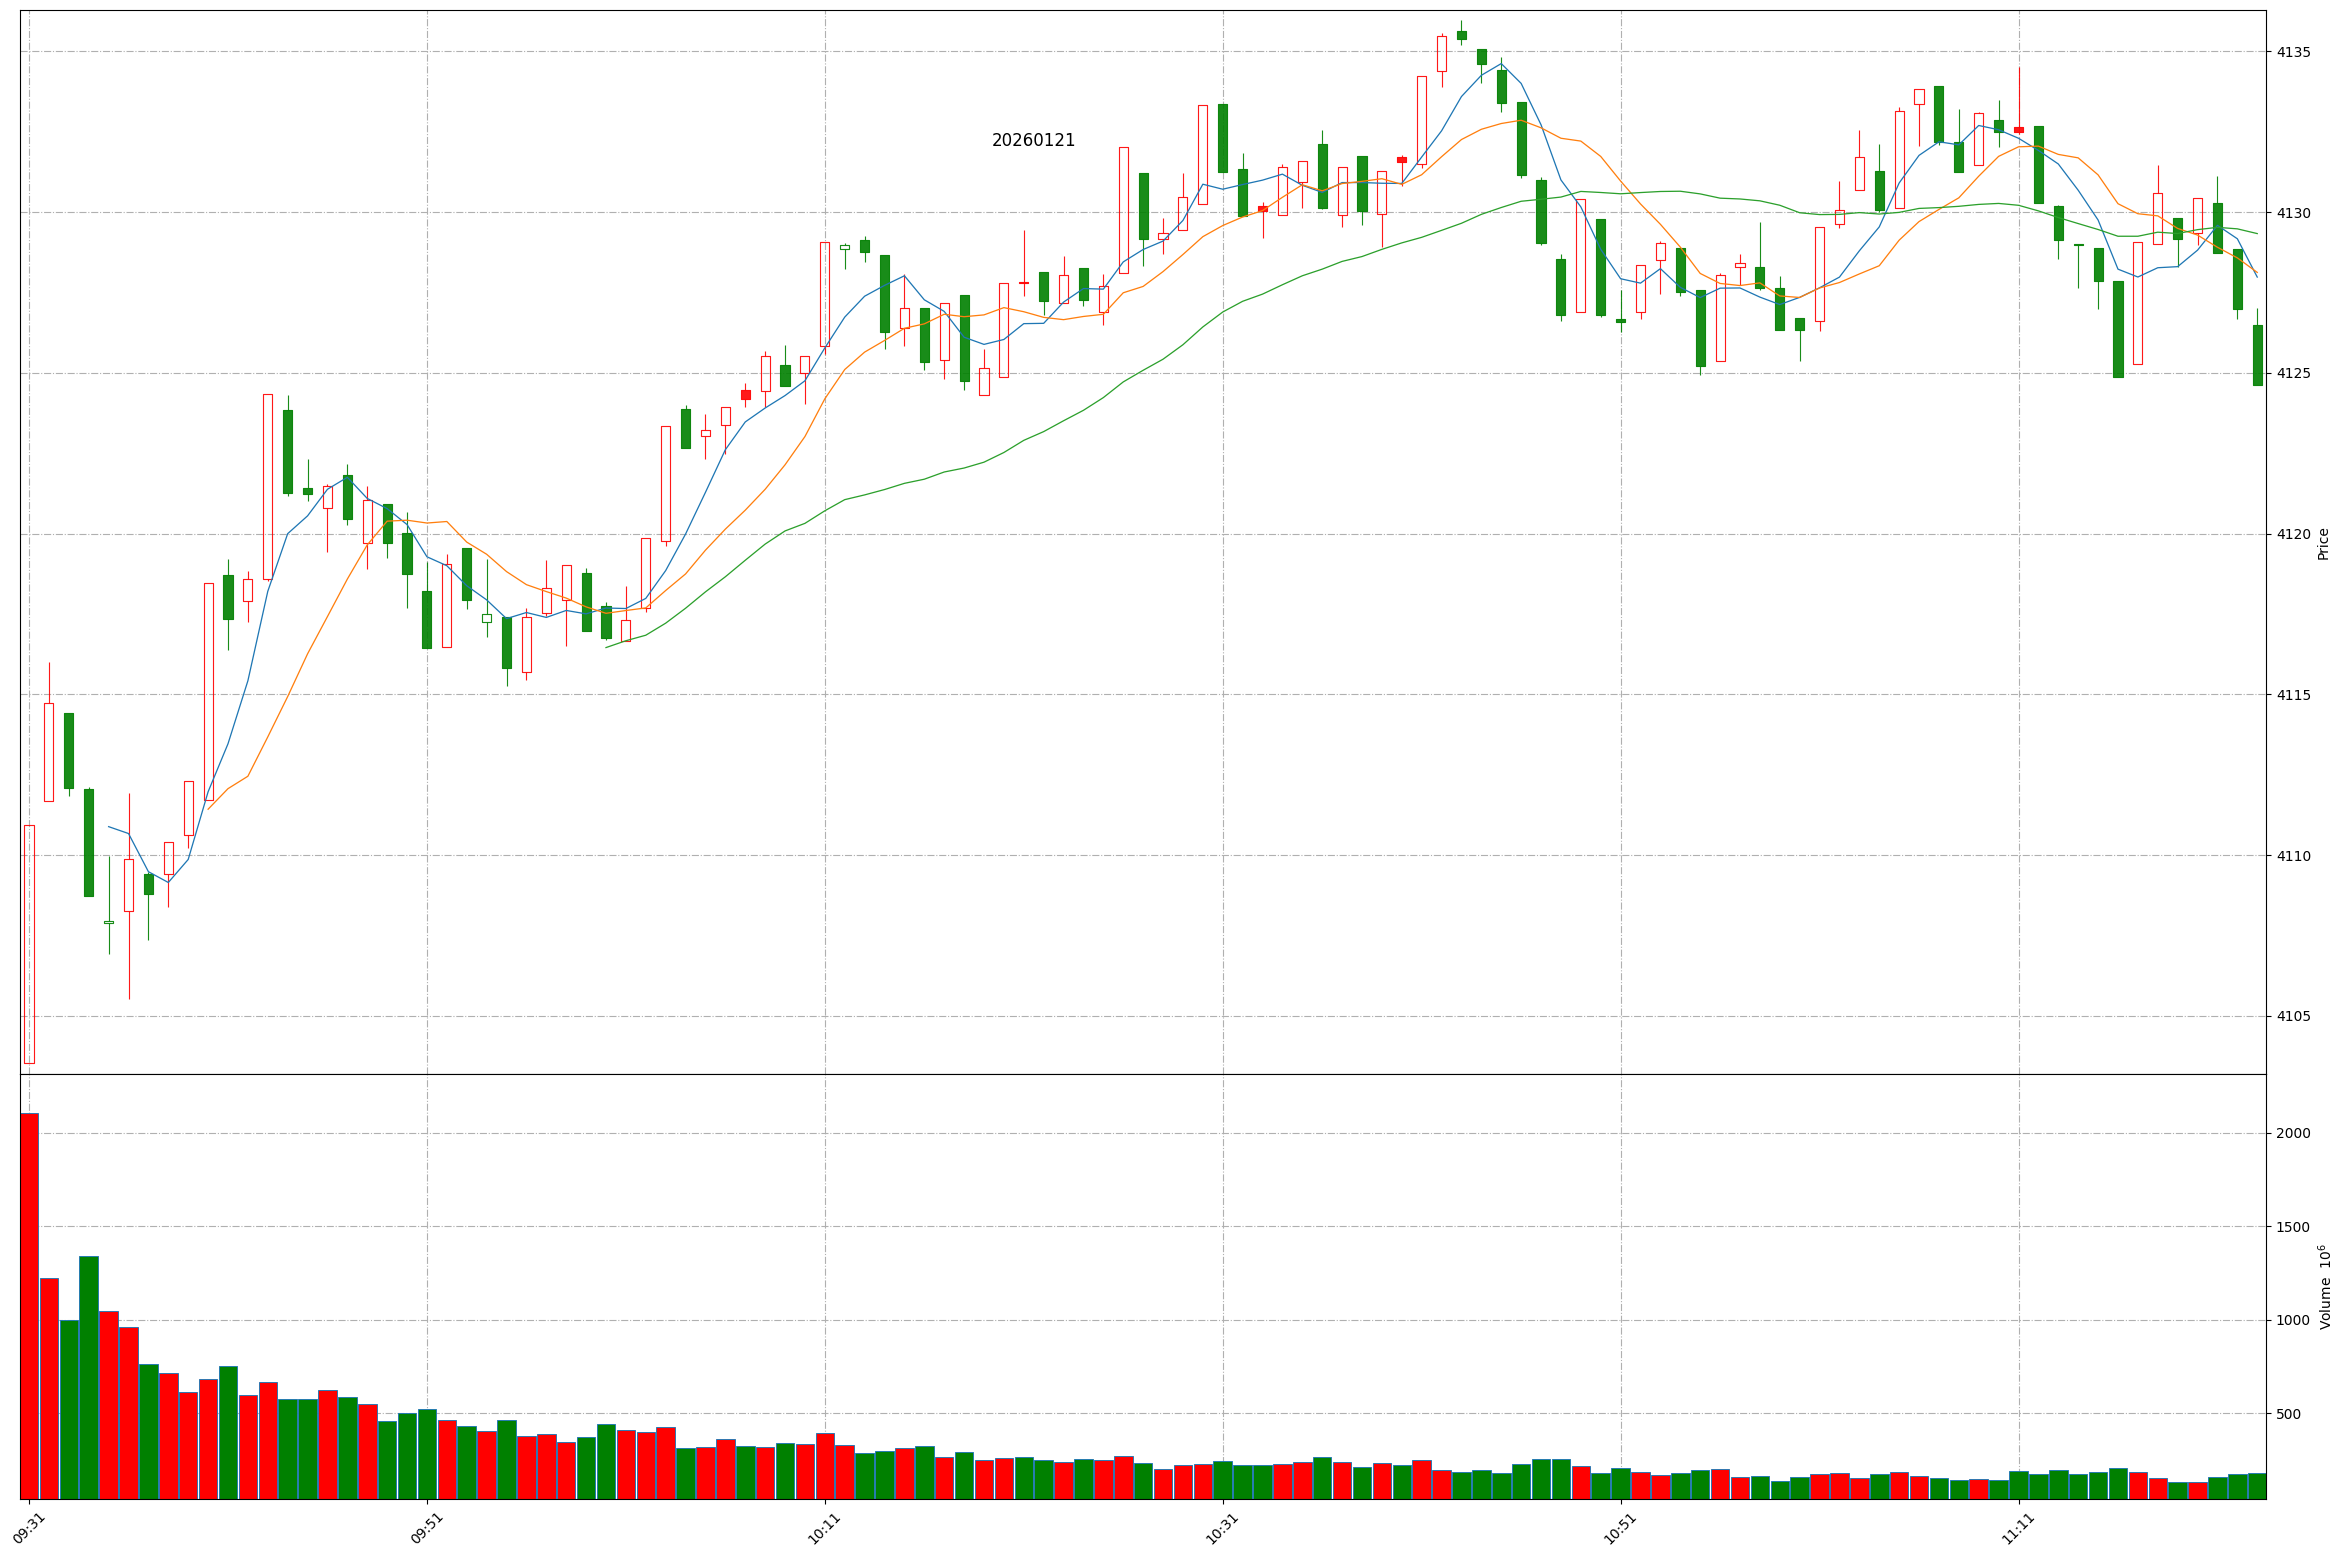
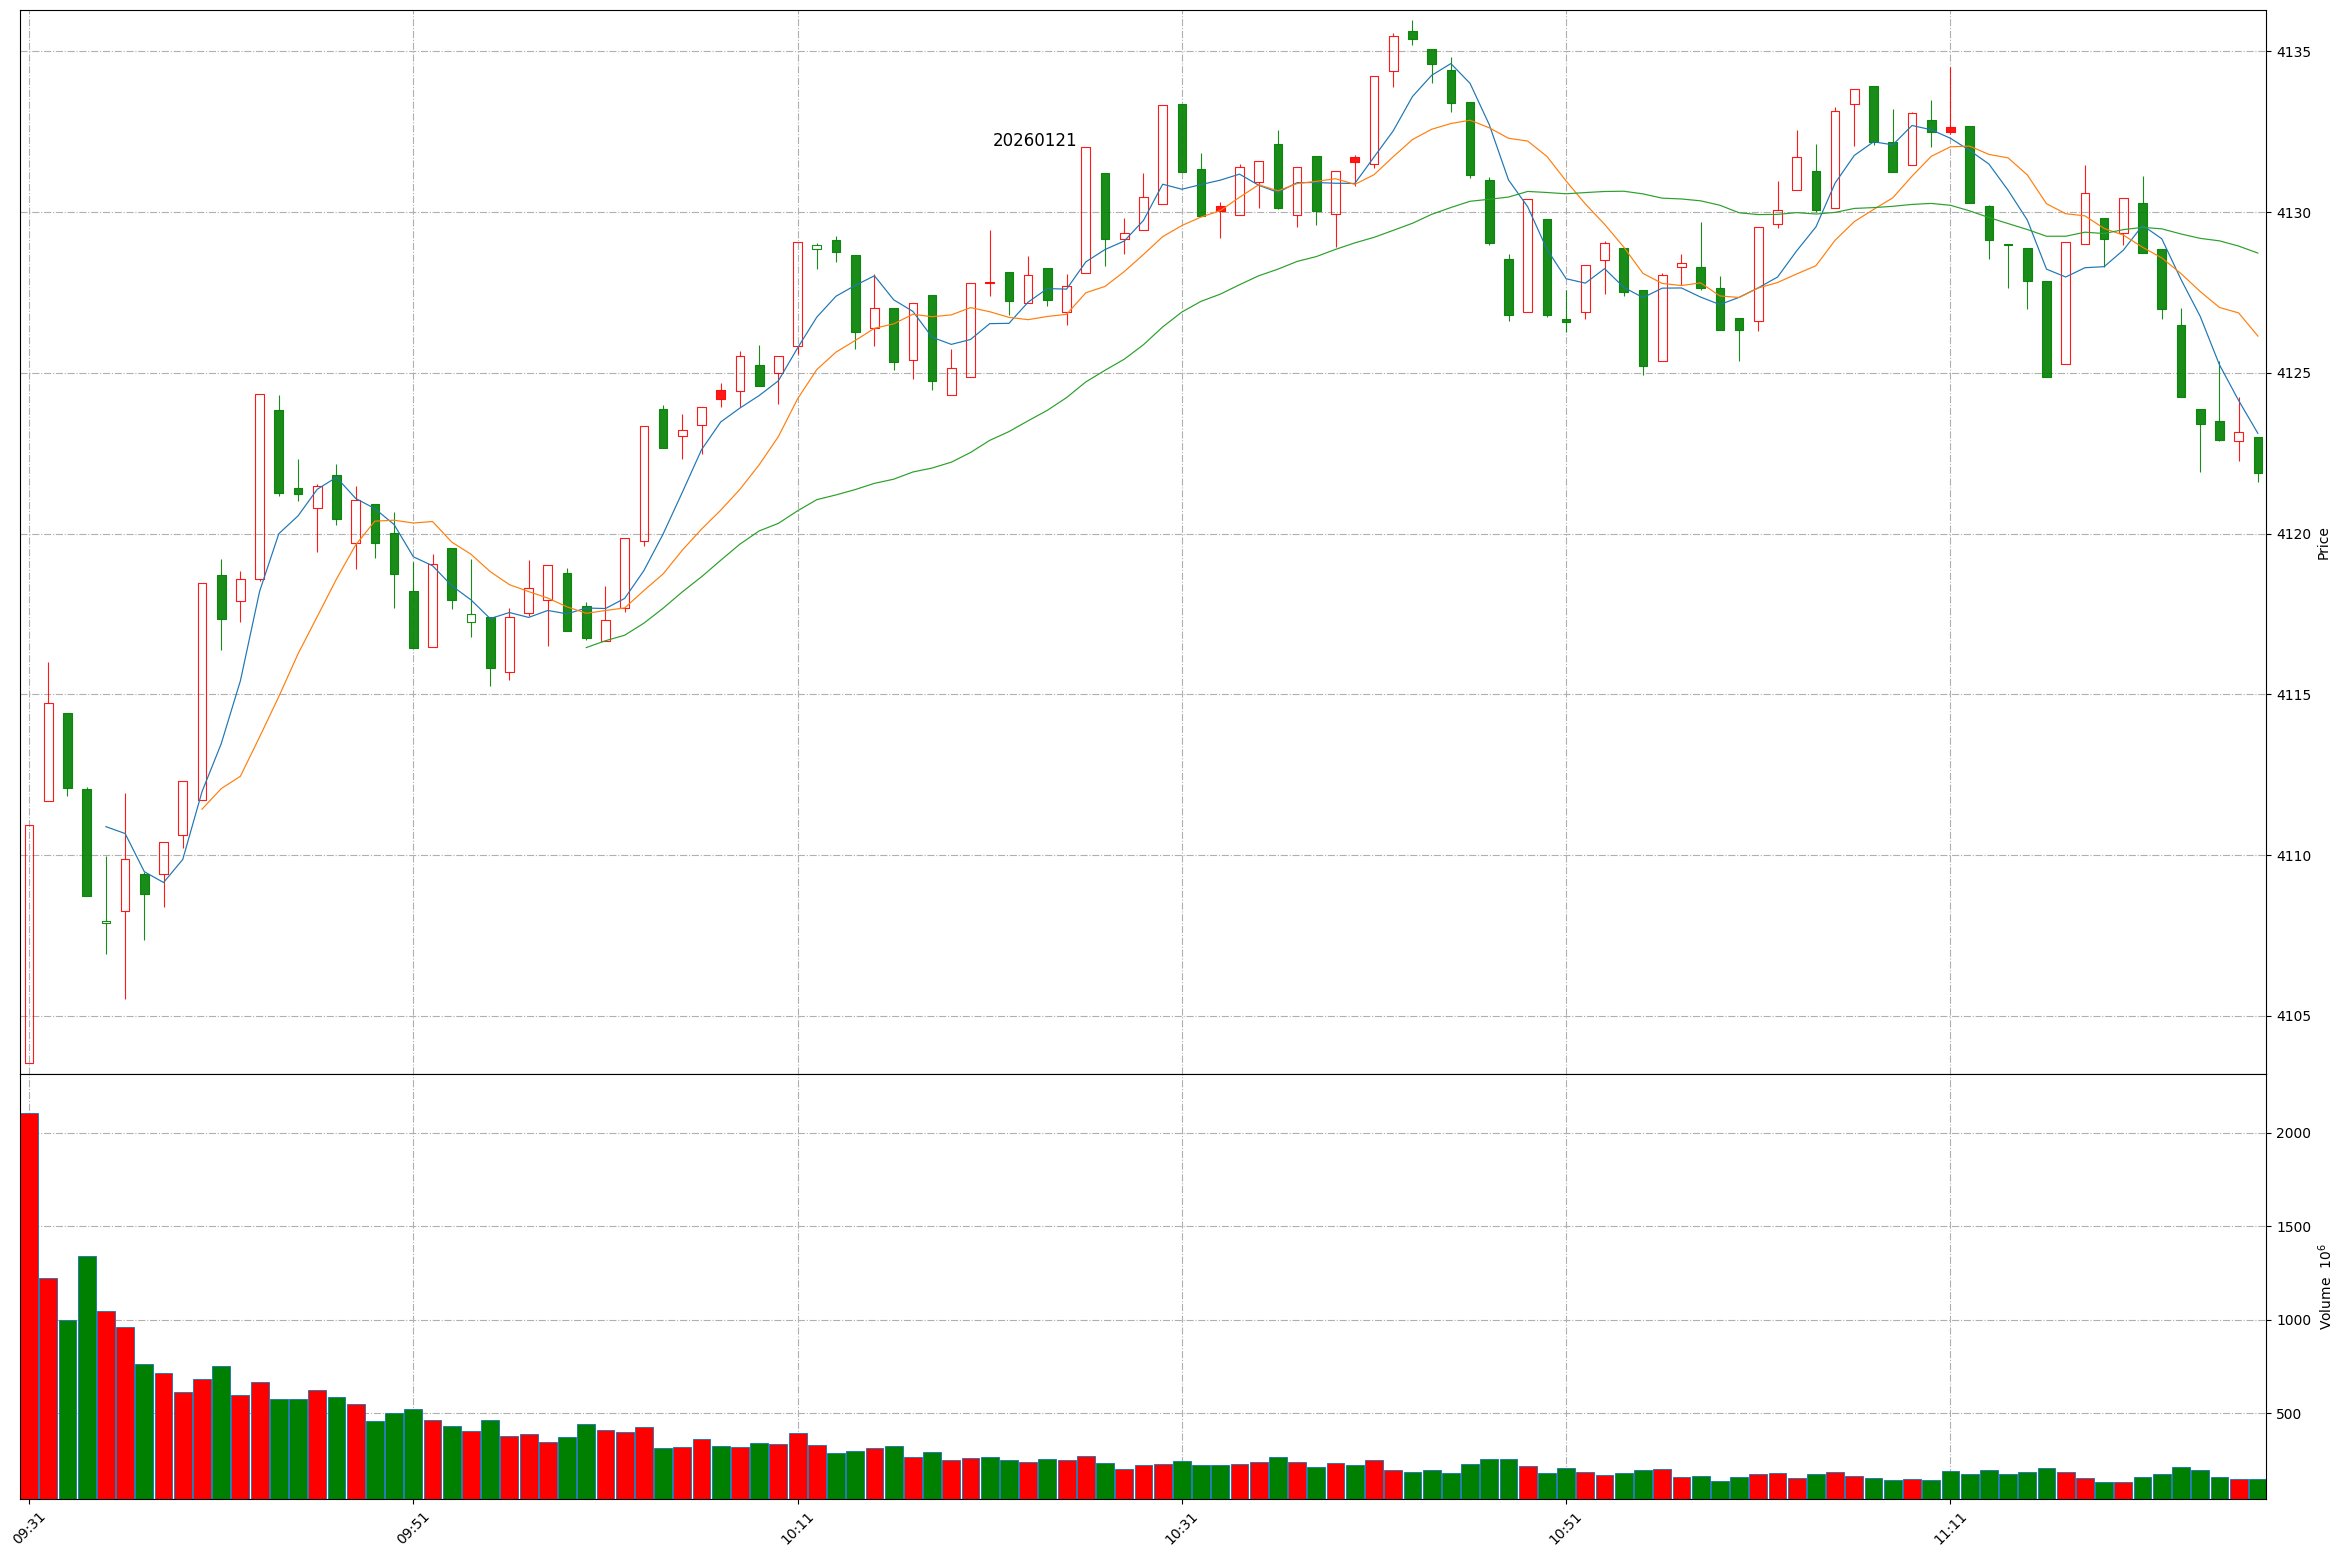
Github action update at 2026-01-21 11:27:22.

diff --git a/README.md b/README.md
@@ -1,11 +1,11 @@
 
 # Daily-A-share-market-quotes 每日 A 股指数（5min 更新）- 20260121
 
-### 上证指数 20260121 11:23
+### 上证指数 20260121 11:27
 ![](./fig/2026/1/20260121-sh000001.png)
 
-### 深证成指 20260121 11:23
+### 深证成指 20260121 11:27
 ![](./fig/2026/1/20260121-sz399001.png)
 
-### 北证50 20260121 11:23
+### 北证50 20260121 11:27
 ![](./fig/2026/1/20260121-bj899050.png)
